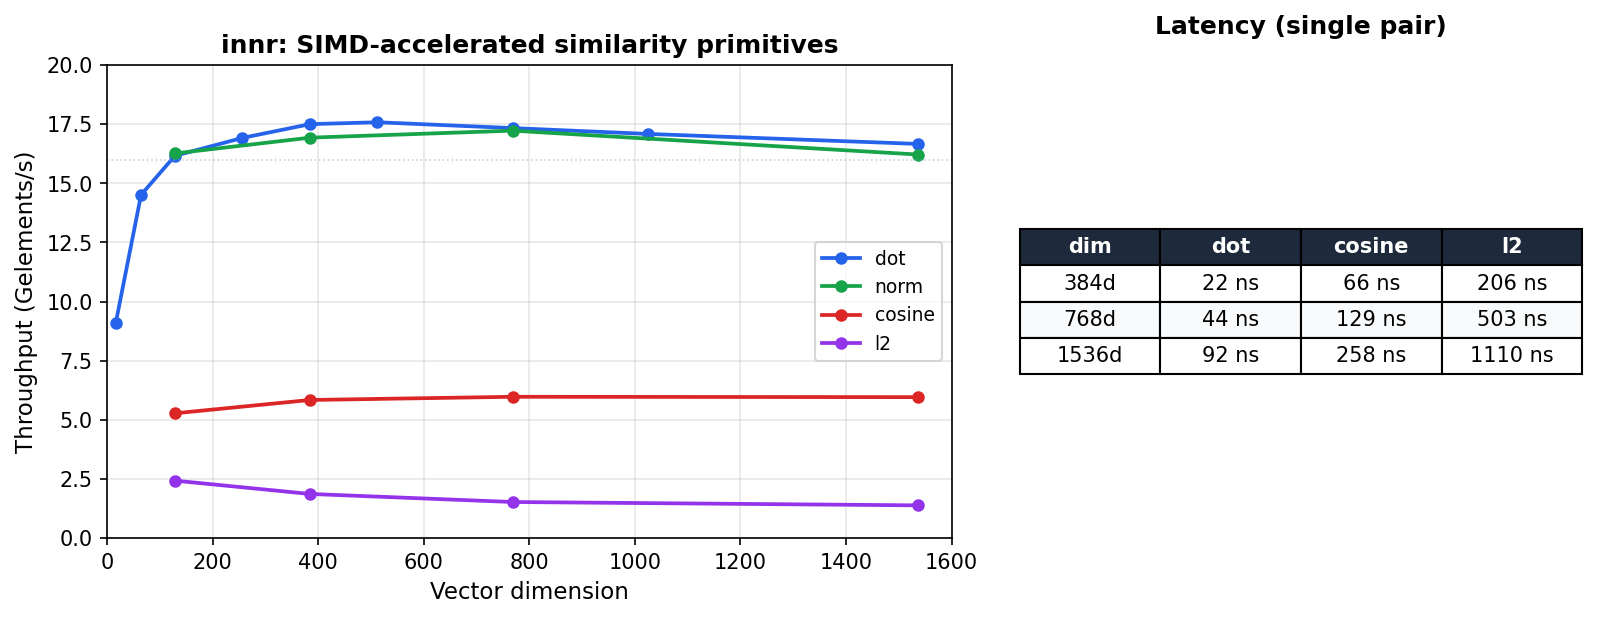
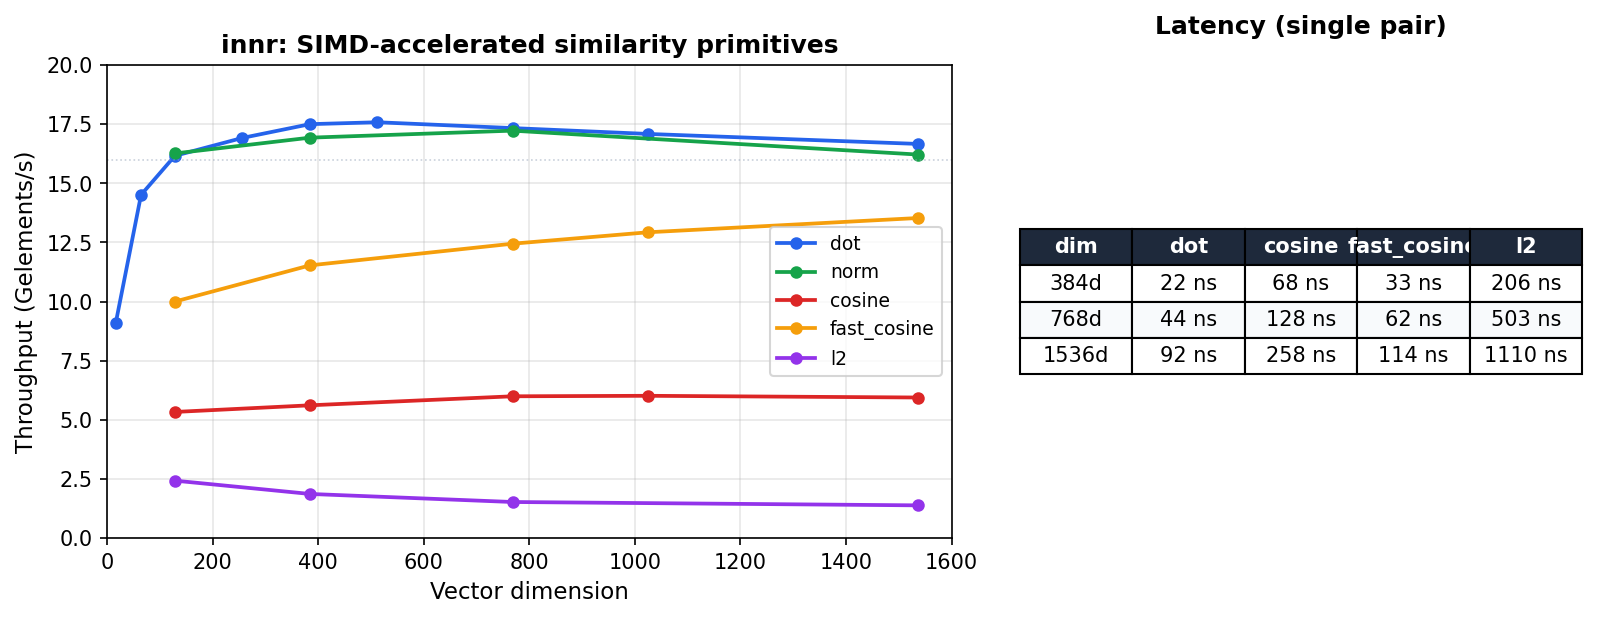
chore: bump to 0.1.5, update benchmark chart with fast_cosine line (~2x speedup)

diff --git a/scripts/plot_benchmarks.py b/scripts/plot_benchmarks.py
@@ -12,7 +12,8 @@ import matplotlib.ticker as ticker
 # Benchmark data from criterion (Apple Silicon, NEON)
 # Format: dimension -> median time in nanoseconds
 dot = {16: 1.76, 64: 4.41, 128: 7.92, 256: 15.13, 384: 21.94, 512: 29.12, 768: 44.30, 1024: 59.92, 1536: 92.16}
-cosine = {128: 24.26, 384: 65.76, 768: 128.54, 1536: 257.75}
+cosine = {128: 24.0, 384: 68.4, 768: 128.1, 1024: 170.2, 1536: 258.4}
+fast_cosine = {128: 12.8, 384: 33.3, 768: 61.7, 1024: 79.2, 1536: 113.5}
 norm = {128: 7.87, 384: 22.68, 768: 44.58, 1536: 94.71}
 l2 = {128: 52.70, 384: 205.73, 768: 503.36, 1536: 1109.8}
 
@@ -25,8 +26,8 @@ def throughput(dims_ns: dict) -> tuple[list, list]:
 fig, (ax1, ax2) = plt.subplots(1, 2, figsize=(11, 4.5), gridspec_kw={"width_ratios": [3, 2]})
 
 # Left: throughput vs dimension
-colors = {"dot": "#2563eb", "cosine": "#dc2626", "norm": "#16a34a", "l2": "#9333ea"}
-for name, data in [("dot", dot), ("norm", norm), ("cosine", cosine), ("l2", l2)]:
+colors = {"dot": "#2563eb", "cosine": "#dc2626", "fast_cosine": "#f59e0b", "norm": "#16a34a", "l2": "#9333ea"}
+for name, data in [("dot", dot), ("norm", norm), ("cosine", cosine), ("fast_cosine", fast_cosine), ("l2", l2)]:
     dims, geps = throughput(data)
     ax1.plot(dims, geps, "o-", label=name, color=colors[name], markersize=5, linewidth=1.8)
 
@@ -47,6 +48,7 @@ for d in common_dims:
         f"{d}d",
         f"{dot[d]:.0f} ns" if d in dot else "-",
         f"{cosine[d]:.0f} ns" if d in cosine else "-",
+        f"{fast_cosine[d]:.0f} ns" if d in fast_cosine else "-",
         f"{l2[d]:.0f} ns" if d in l2 else "-",
     ]
     table_data.append(row)
@@ -55,7 +57,7 @@ ax2.axis("off")
 ax2.set_title("Latency (single pair)", fontsize=12, fontweight="bold", pad=15)
 table = ax2.table(
     cellText=table_data,
-    colLabels=["dim", "dot", "cosine", "l2"],
+    colLabels=["dim", "dot", "cosine", "fast_cosine", "l2"],
     loc="center",
     cellLoc="center",
 )
@@ -64,13 +66,13 @@ table.set_fontsize(10)
 table.scale(1.0, 1.6)
 
 # Style header row
-for j in range(4):
+for j in range(5):
     table[0, j].set_facecolor("#1e293b")
     table[0, j].set_text_props(color="white", fontweight="bold")
 
 # Alternate row colors
 for i in range(1, len(common_dims) + 1):
-    for j in range(4):
+    for j in range(5):
         table[i, j].set_facecolor("#f8fafc" if i % 2 == 0 else "white")
 
 fig.tight_layout(pad=2.0)
